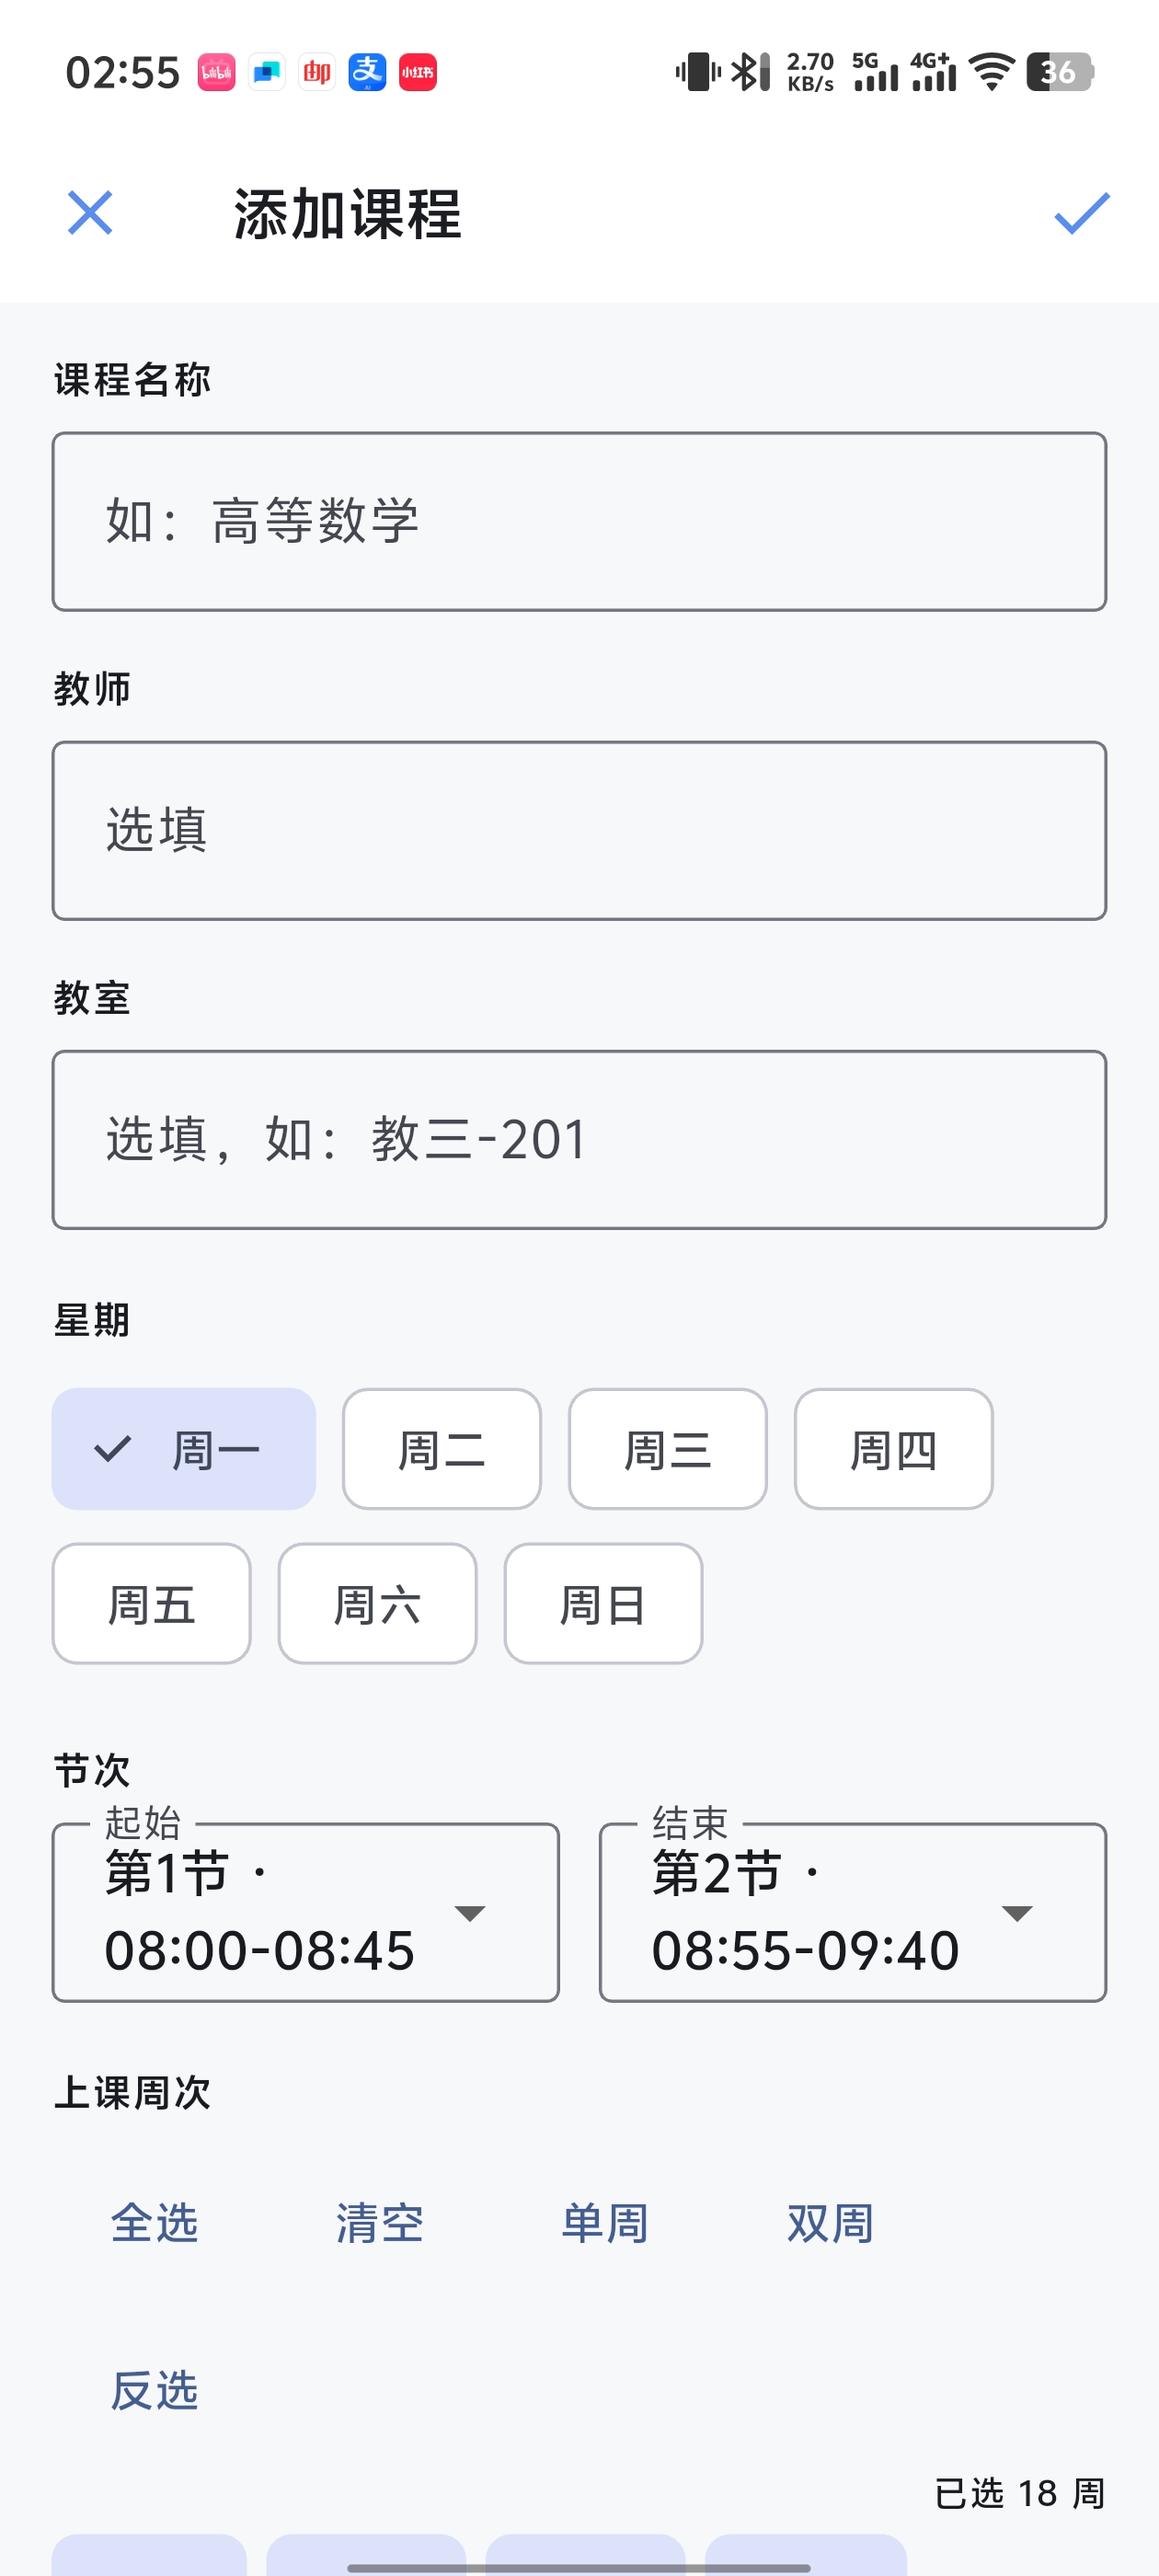
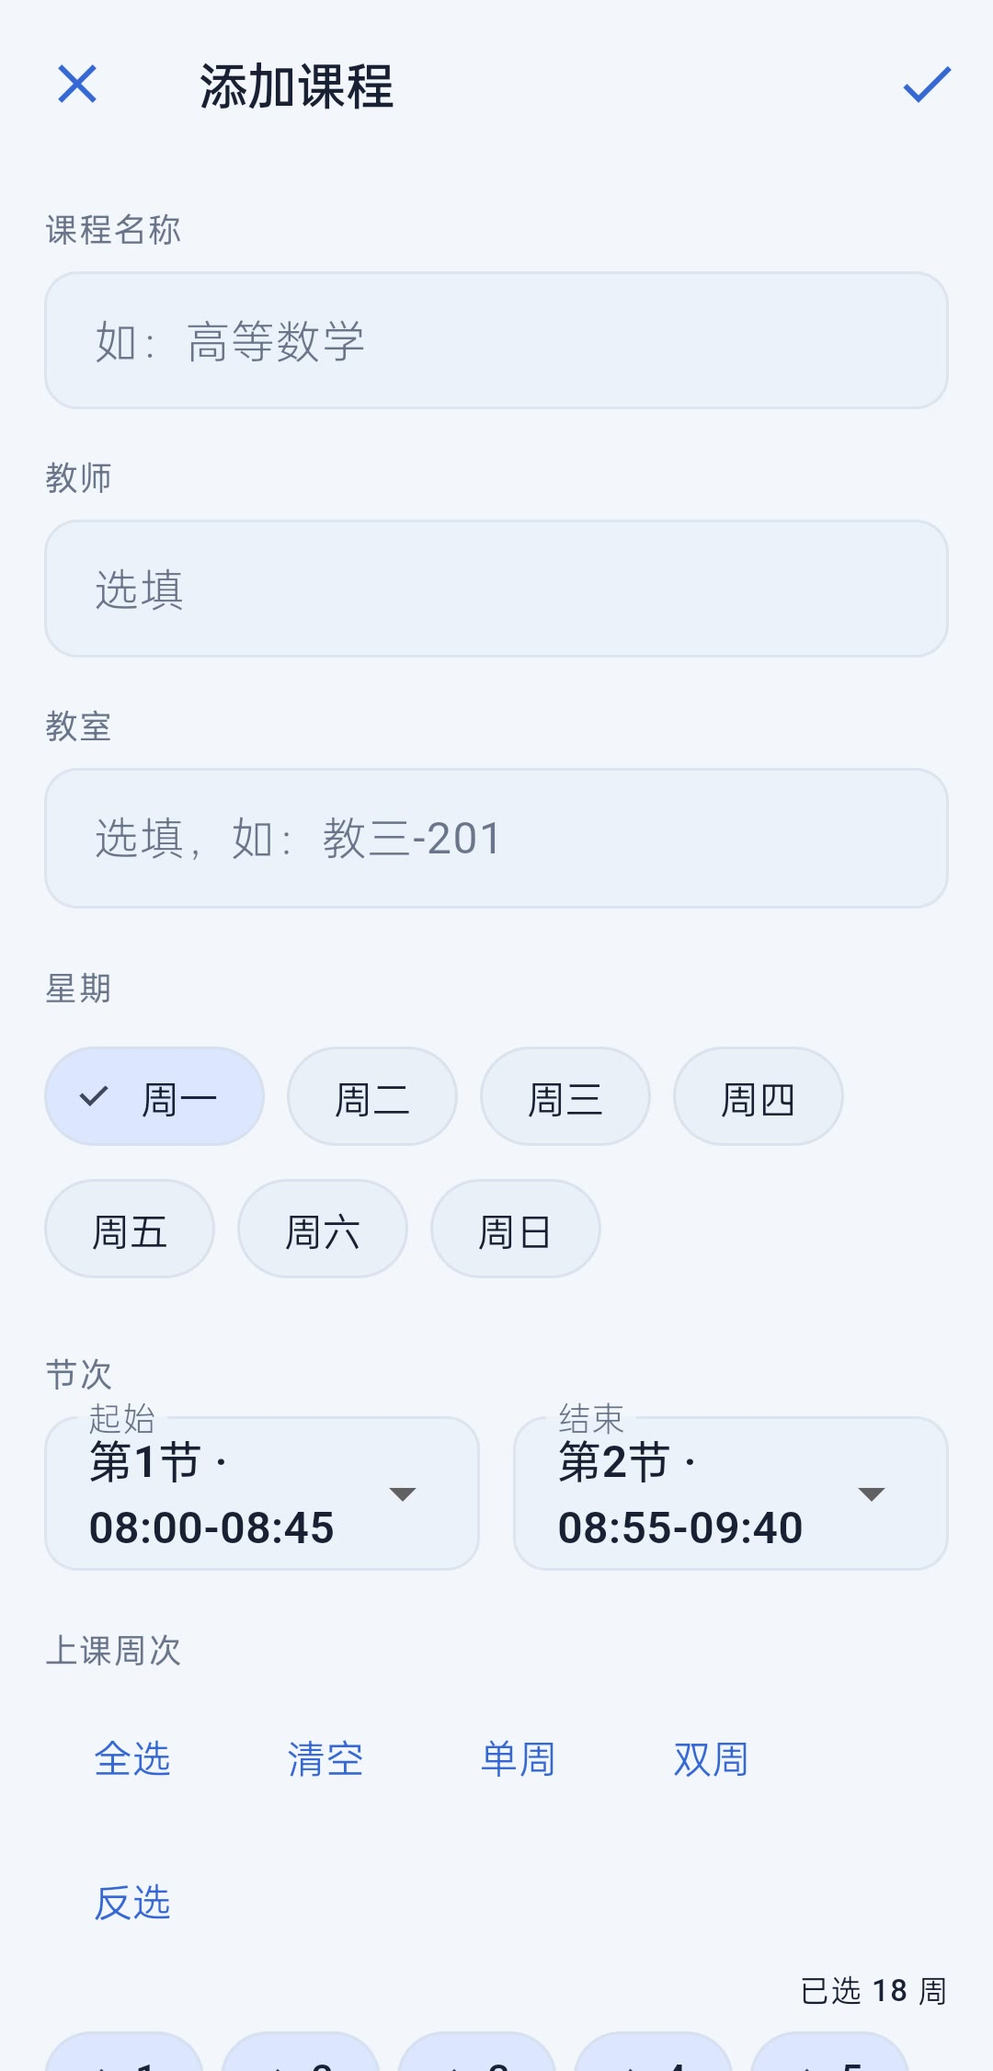
docs(readme): 更新界面截图并补充课程平台与迁移说明
截图改用 Recess 真机界面，裁掉状态栏和导航条，教师姓名已打码。

diff --git a/README.md b/README.md
@@ -13,14 +13,15 @@
 
 ## 界面预览
 
-| 每周课表 | 课程编辑 | 学期管理 | 设置 | 教务导入 |
+| 每周课表 | 今日课程 | 添加课程 | 设置 | 抓取说明 |
 | :---: | :---: | :---: | :---: | :---: |
-| ![每周课表](docs/screenshots/week.jpg) | ![课程编辑](docs/screenshots/edit.jpg) | ![学期管理](docs/screenshots/semester.jpg) | ![设置](docs/screenshots/settings.jpg) | ![教务导入](docs/screenshots/import.jpg) |
+| ![每周课表](docs/screenshots/week.jpg) | ![今日课程](docs/screenshots/today.jpg) | ![添加课程](docs/screenshots/edit.jpg) | ![设置](docs/screenshots/settings.jpg) | ![课程抓取使用说明](docs/screenshots/import-guide.jpg) |
 
 ## 能做什么
 
-- **查看课程安排**：七天周视图、今日课程时间线、周次切换与快速跳转；可按课程名、教师或教室搜索。
+- **查看课程安排**：七天周视图、今日课程时间线；点开日期标题可跳到指定周、回到本周或修改当前周；可按课程名、教师或教室搜索。
 - **编辑自己的课表**：添加、编辑、复制和删除课程，设置星期、节次、周次、教师、教室、颜色及备注；支持单周、双周等周次选择。
+- **记录课程平台**：为每门课保存学习通、雨课堂、课程群等平台和链接，在课程详情里一点即可打开。
 - **管理多个学期**：设置开学日期和学期周数，自动计算当前周，也可手动调整以应对调课或假期。
 - **导入教务课表**：在内置浏览器中登录学校教务系统，抓取课程后预览、勾选并导入；也支持 ICS 和 JSON 文件。
 - **按习惯设置提醒与外观**：课前 5 / 10 / 15 / 30 分钟提醒，自定义节次时间，切换浅色、深色或跟随系统主题。
@@ -31,6 +32,8 @@
 ## 下载与开始使用
 
 到 [GitHub Releases](https://github.com/jiangkaiqi2005/recess/releases/latest) 下载以 `.apk` 结尾的安装包。`.aab` 用于应用分发，不能直接在手机上安装；`.apk.sha256` 是安装包校验文件。
+
+Recess 由 Hormone 课表改名而来，使用新的包名和签名，不能从 Hormone 覆盖升级，两者可以同时安装。迁移课表时，先在 Hormone 中导出备份，再在 Recess 的“设置 → 从备份恢复”中读取。
 
 1. 安装并打开应用，在学期管理中确认开学日期和总周数。
 2. 手动添加课程，或进入导入页面，从教务系统、ICS 文件或 JSON 文件导入。
